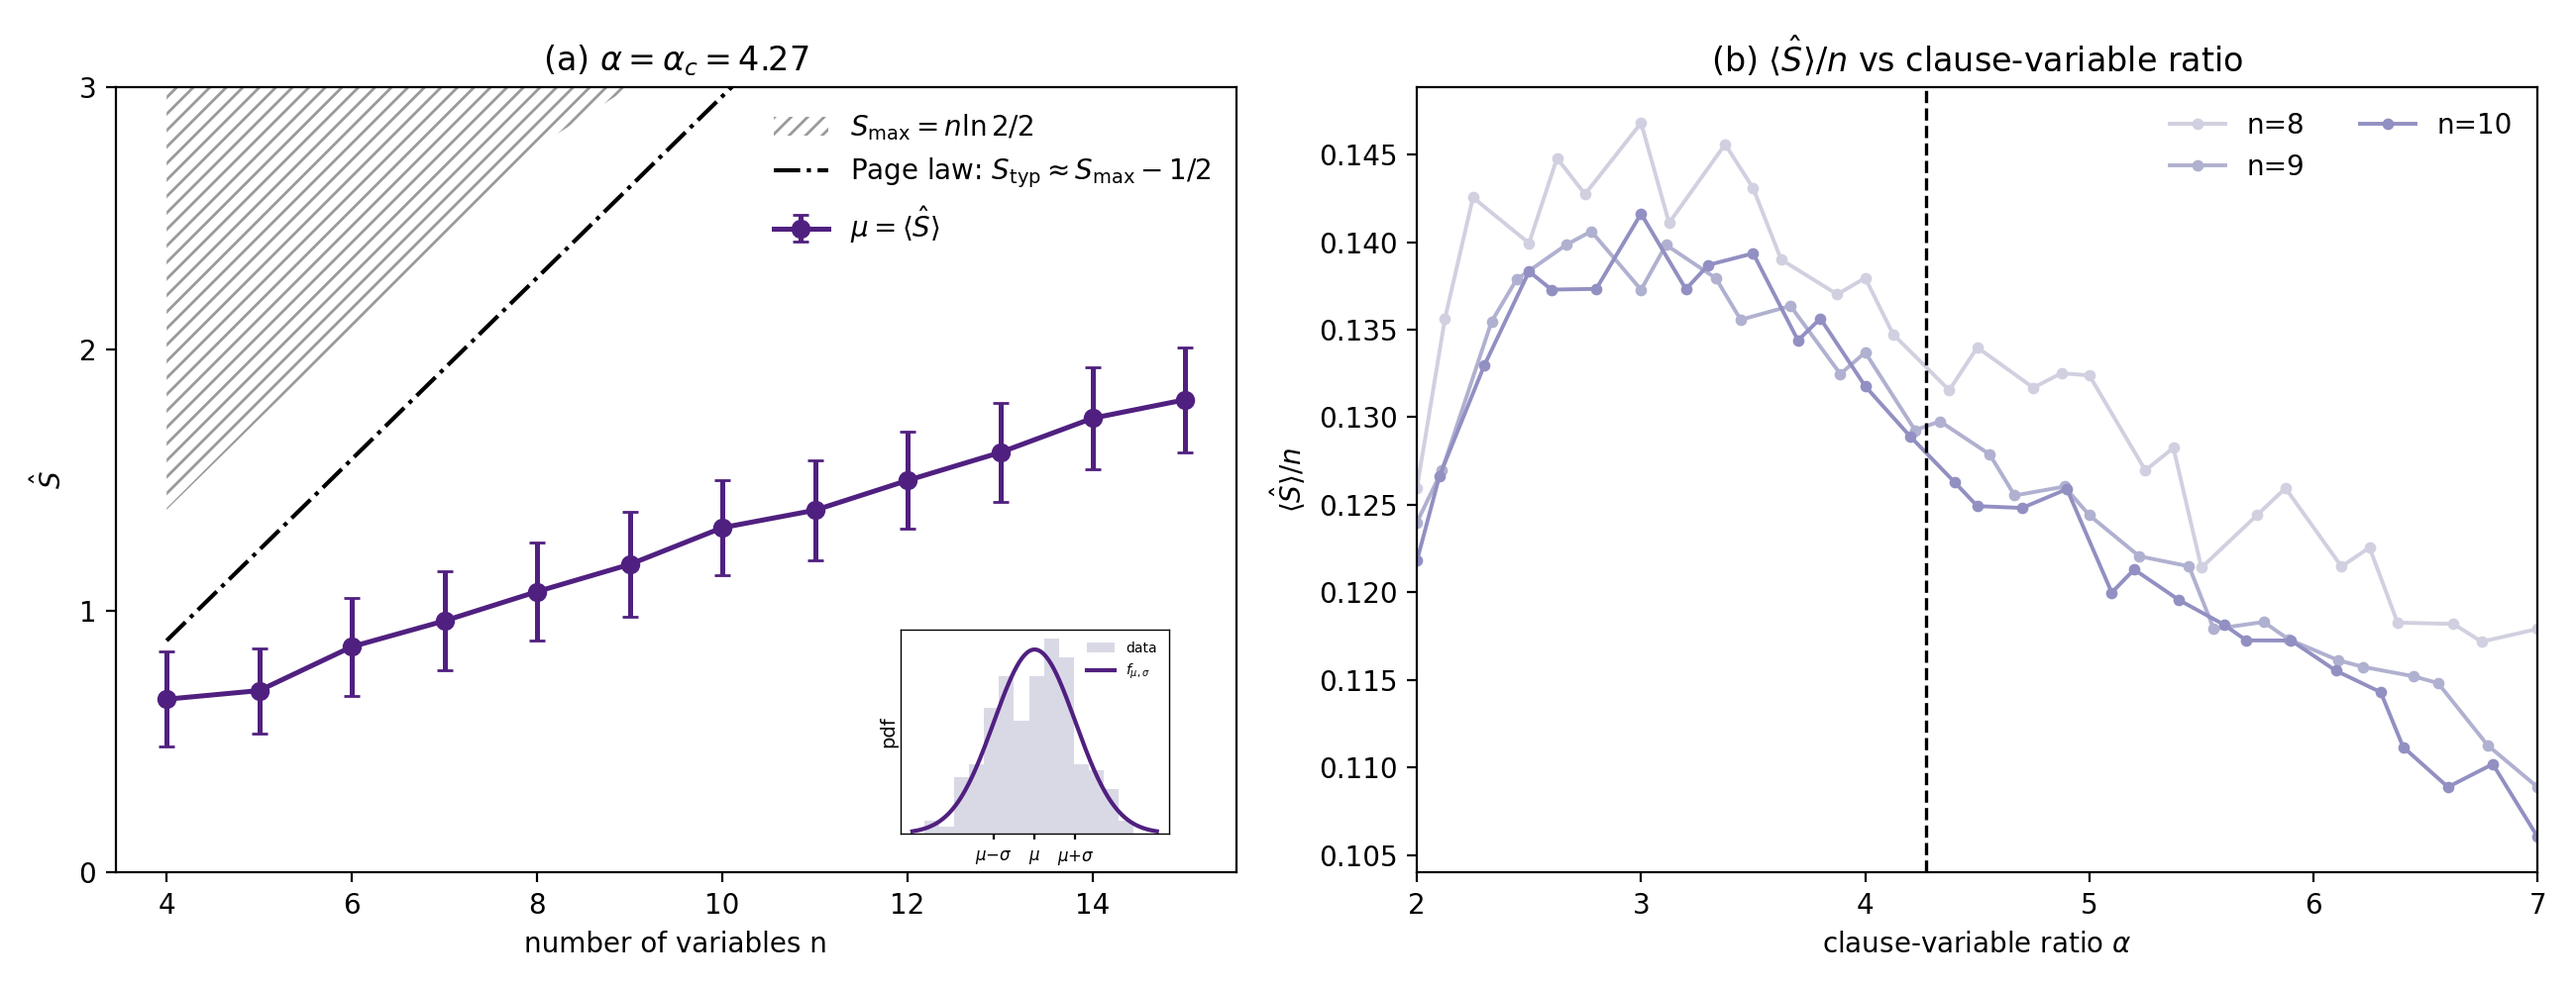
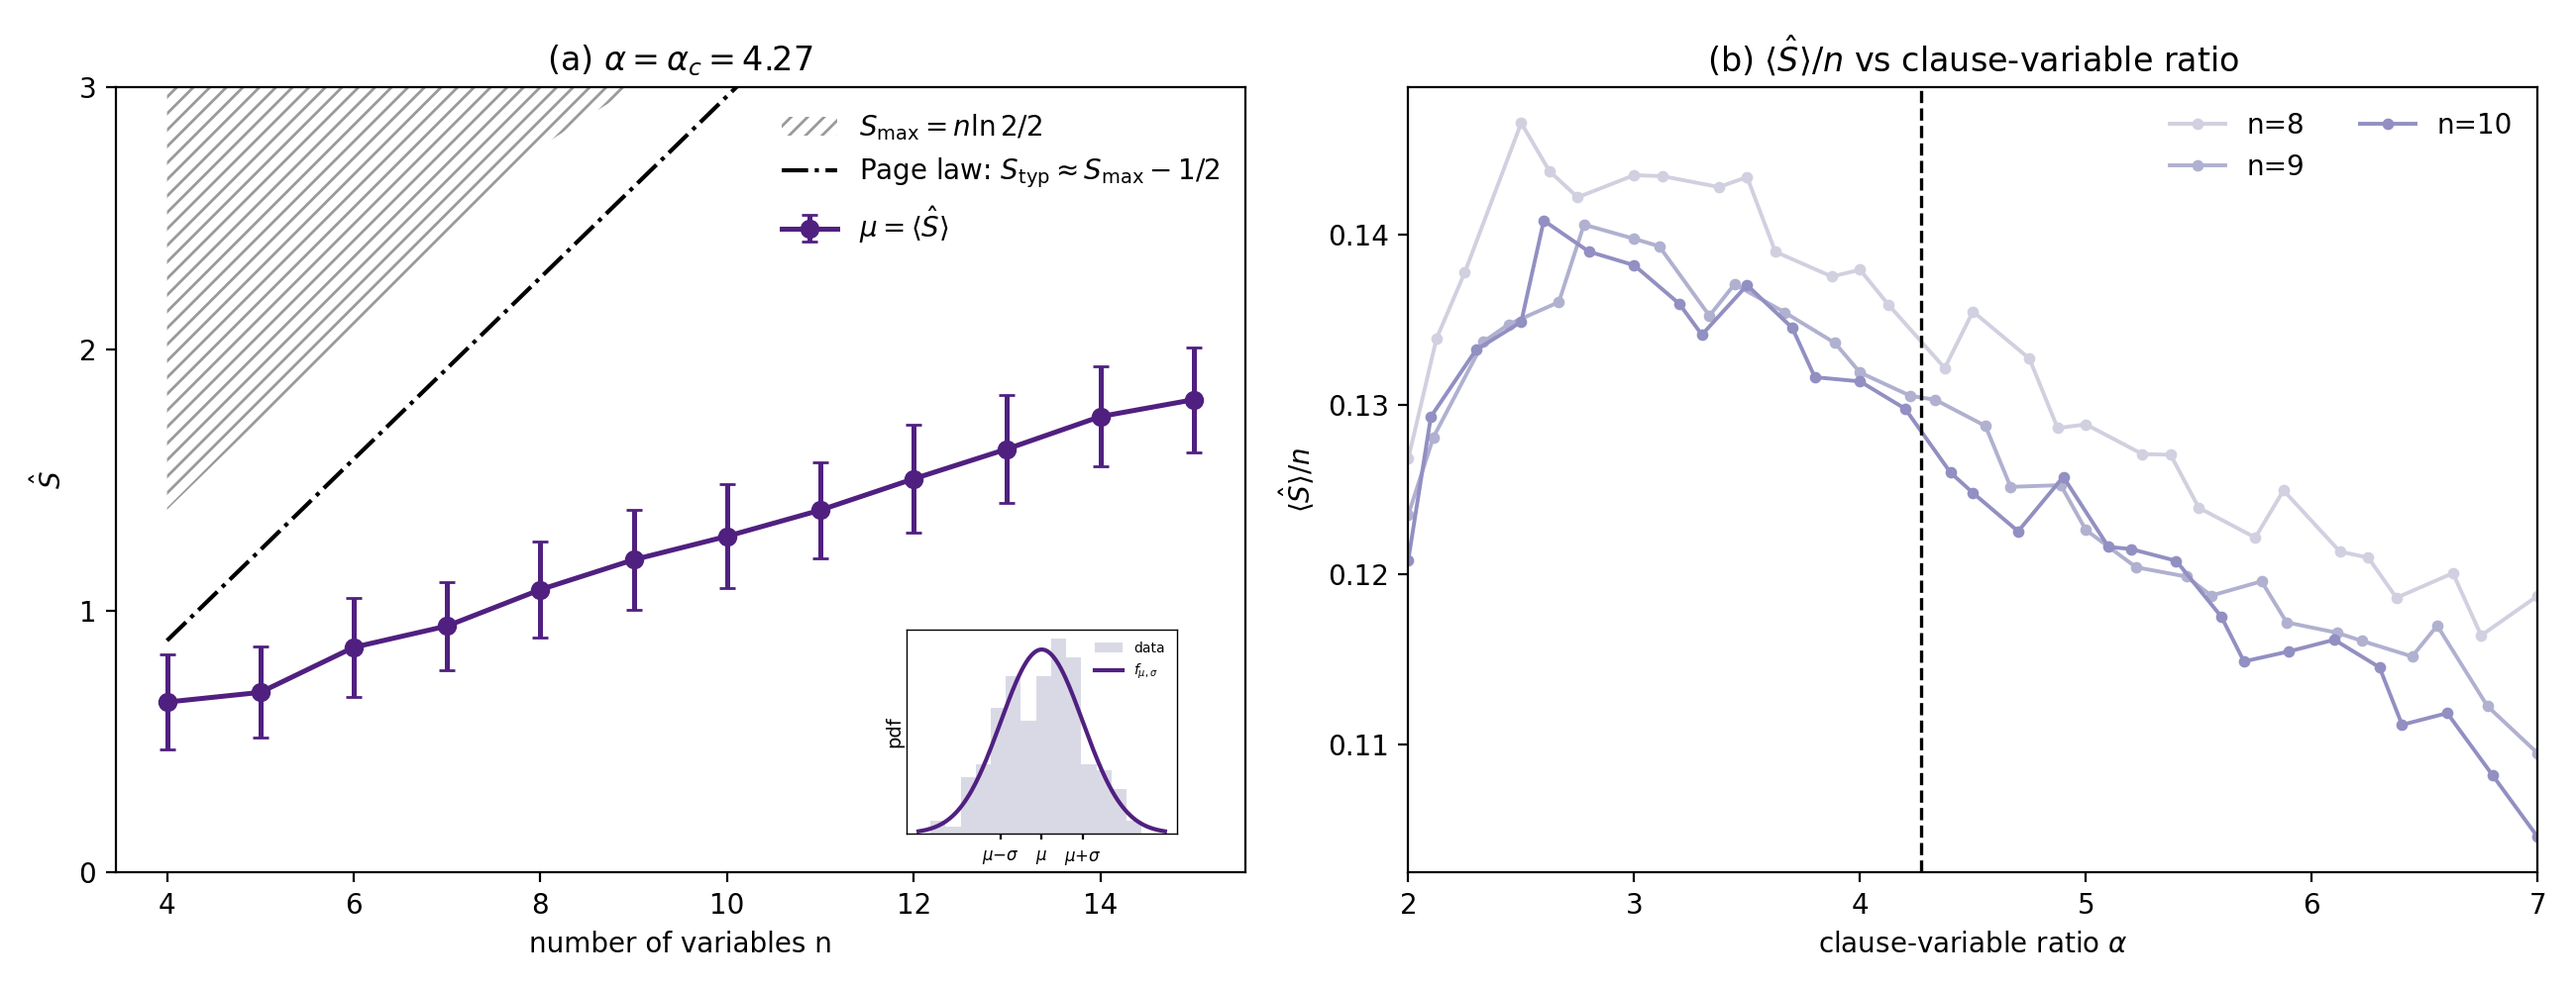
simplify demo  with scipy and optimize performance

diff --git a/examples/reproduce_papers/2026_sat_mps_entanglement/main.py b/examples/reproduce_papers/2026_sat_mps_entanglement/main.py
@@ -21,6 +21,7 @@ import jax
 import jax.numpy as jnp
 import matplotlib.pyplot as plt
 import numpy as np
+from scipy import optimize
 import tensorcircuit as tc
 
 PAPER_COLORS = {
@@ -31,7 +32,7 @@ PAPER_COLORS = {
 }
 
 K = tc.set_backend("jax")
-tc.set_dtype("float64")
+tc.set_dtype("complex128")
 
 
 @lru_cache(maxsize=None)
@@ -50,9 +51,9 @@ def _cached_bit_table_jax(n_variables: int):
 
 @lru_cache(maxsize=None)
 def _cached_init_state(n_variables: int):
-    """Uniform superposition |+...+> as real float64 (diagonal H => always real)."""
+    """Uniform superposition |+...+> in complex128."""
     dim = 1 << n_variables
-    return jnp.ones(dim, dtype=jnp.float64) / jnp.sqrt(float(dim))
+    return jnp.ones(dim, dtype=jnp.complex128) / jnp.sqrt(float(dim))
 
 
 def _generate_batch_clauses(key, n_variables, n_clauses, batch_size, p0):
@@ -80,104 +81,86 @@ def _generate_batch_clauses(key, n_variables, n_clauses, batch_size, p0):
     return K.cast(signs * terms, "int16")
 
 
-def _single_violation(instance_clauses, bit_table, clause_mask):
-    """Violation count for each bitstring of one instance (avoids 4D broadcast)."""
+def _single_violation(instance_clauses, bit_table):
+    """Violation count for each bitstring of one instance."""
     clause_vars = K.cast(K.abs(instance_clauses), "int32") - 1
     clause_negs = K.cast(instance_clauses < 0, "int8")
     selected = bit_table[:, clause_vars]
     violated = K.all(selected == clause_negs[None, :, :], axis=-1)
-    violated = violated & clause_mask[None, :]
     return K.cast(violated.sum(axis=-1), "float64")
 
 
 # Same setting as author's Julia reference
 _TAU_UPPER = 7.5
 _TAU_VALID = 10.0
-_GSS_ITERS = 13
-# Batch size setting which can be tuned by user for different hardware.
-_CHECK_BATCH = 1024
-_GSS_BATCH = 256
+_CHECK_BATCH = 2048
 _MAX_BATCH_BYTES = 1 << 30
 
 
-def _entropy_at_tau(tau, energies, init_state, n_left):
-    """Half-chain von Neumann entropy of the imaginary-time evolved state."""
+def _entropy_from_singular_values(s, xp):
+    """Shared entropy helper from singular values."""
+    s2 = s * s
+    p = xp.where(s2 < 1e-10, 0.0, s2)
+    p = p / xp.sum(p)
+    p = xp.clip(p, 1e-30, None)
+    return -xp.sum(p * xp.log(p))
+
+
+def _entropy_at_tau_jax(tau, energies, init_state, n_left):
+    """JAX entropy used by stage1 validity filtering."""
     psi = init_state * K.exp(-tau * energies)
     dim_left = 1 << n_left
     s = jnp.linalg.svd(psi.reshape(dim_left, -1), compute_uv=False)
-    p = s**2
-    p = K.where(p < 1e-10, 0.0, p)
-    p = p / K.sum(p)
-    p = K.clip(p, 1e-30, 1.0)
-    return -K.sum(p * K.log(p))
+    return _entropy_from_singular_values(s, jnp)
+
+
+def _entropy_at_tau(tau, energies_np, init_state_np, n_left):
+    """NumPy entropy for host-side SciPy peak search."""
+    tau = float(tau)
+    psi = init_state_np * np.exp(-tau * energies_np)
+    dim_left = 1 << n_left
+    s = np.linalg.svd(psi.reshape(dim_left, -1), compute_uv=False)
+    return float(_entropy_from_singular_values(s, np))
 
 
 def _check_valid_single(energies, init_state, n_left):
     """Validity check per Julia reference: S(7.5) >= S(10.0)."""
-    return _entropy_at_tau(_TAU_UPPER, energies, init_state, n_left) >= _entropy_at_tau(
-        _TAU_VALID, energies, init_state, n_left
-    )
+    return _entropy_at_tau_jax(
+        _TAU_UPPER, energies, init_state, n_left
+    ) >= _entropy_at_tau_jax(_TAU_VALID, energies, init_state, n_left)
 
 
 def _stage1_generate_and_check(
-    key, bit_table, init_state, n_variables, max_clauses, batch_size, p0, n_clauses
+    key, bit_table, init_state, n_variables, n_clauses, batch_size, p0
 ):
     """generate instances, compute energies, check validity."""
     n_left = n_variables // 2
-    clauses = _generate_batch_clauses(key, n_variables, max_clauses, batch_size, p0)
-    clause_mask = jnp.arange(max_clauses) < n_clauses
-    energies = K.vmap(lambda c: _single_violation(c, bit_table, clause_mask))(clauses)
+    clauses = _generate_batch_clauses(key, n_variables, n_clauses, batch_size, p0)
+    energies = K.vmap(lambda c: _single_violation(c, bit_table))(clauses)
     is_valid = K.vmap(lambda e: _check_valid_single(e, init_state, n_left))(energies)
     return energies, is_valid
 
 
-def _find_peak_single(energies, init_state, n_left):
-    """Golden section search for peak entropy over tau in [0, TAU_UPPER]."""
-    gr = (K.sqrt(5.0) + 1.0) / 2.0
+def _find_peak_single(energies_np, init_state_np, n_left):
+    """Find peak entropy via coarse scan + bounded scalar minimize."""
+    tau_grid = np.array([0.0, 1.5, 3.0, 4.5, 6.0, _TAU_UPPER], dtype=np.float64)
+    coarse_max = max(
+        _entropy_at_tau(t, energies_np, init_state_np, n_left) for t in tau_grid
+    )
 
-    def _ent(tau):
-        return _entropy_at_tau(tau, energies, init_state, n_left)
+    def neg_entropy(tau):
+        return -_entropy_at_tau(tau, energies_np, init_state_np, n_left)
 
-    a, b = 0.0, _TAU_UPPER
-    c = b - (b - a) / gr
-    d = a + (b - a) / gr
-
-    def body(_, state):
-        a, b, c, d, fc, fd = state
-        cond = fc > fd
-        a_new = jnp.where(cond, a, c)
-        b_new = jnp.where(cond, d, b)
-        tau_new = jnp.where(
-            cond,
-            b_new - (b_new - a_new) / gr,
-            a_new + (b_new - a_new) / gr,
-        )
-        ent_new = _ent(tau_new)
-        c_new = jnp.where(cond, tau_new, d)
-        d_new = jnp.where(cond, c, tau_new)
-        fc_new = jnp.where(cond, ent_new, fd)
-        fd_new = jnp.where(cond, fc, ent_new)
-        return (a_new, b_new, c_new, d_new, fc_new, fd_new)
-
-    state = jax.lax.fori_loop(0, _GSS_ITERS, body, (a, b, c, d, _ent(c), _ent(d)))
-    return _ent((state[0] + state[1]) / 2.0)
-
-
-def _stage2_find_peaks(energies_batch, init_state, n_left):
-    """run GSS on a batch of valid energies."""
-    return K.vmap(lambda e: _find_peak_single(e, init_state, n_left))(energies_batch)
+    result = optimize.minimize_scalar(
+        neg_entropy,
+        bounds=(0.0, _TAU_UPPER),
+        method="bounded",
+        options={"xatol": 1e-3, "maxiter": 64},
+    )
+    return max(coarse_max, -float(result.fun))
 
 
 _jit_stage1 = K.jit(_stage1_generate_and_check, static_argnums=(3, 4, 5))
-_jit_stage2 = K.jit(_stage2_find_peaks, static_argnums=(2,))
-
-
-def _next_pow2(x: int) -> int:
-    """Round up to the smallest power of 2 >= x."""
-    p = 1
-    while p < x:
-        p <<= 1
-    return p
 
 
 def sample_bump_heights(
@@ -186,20 +169,16 @@ def sample_bump_heights(
     n_instances: int,
     rng: np.random.Generator,
     p0: float,
-    max_clauses: int | None = None,
 ) -> np.ndarray:
     """Sample maximal entanglement bump heights for fixed n and m (clause count)."""
-    if max_clauses is None:
-        max_clauses = n_clauses
-    stage1_mc = _next_pow2(n_clauses)
     bit_table_jax = _cached_bit_table_jax(n_variables)
     init_state = _cached_init_state(n_variables)
+    init_state_np = np.asarray(jax.device_get(init_state), dtype=np.complex128)
     n_left = n_variables // 2
 
-    bytes_per_inst = (1 << n_variables) * stage1_mc * 4
+    bytes_per_inst = (1 << n_variables) * n_clauses * 4
     mem_limit = max(1, _MAX_BATCH_BYTES // bytes_per_inst)
     check_batch = min(mem_limit, _CHECK_BATCH)
-    gss_batch = min(mem_limit, _GSS_BATCH)
 
     key = jax.random.key(int(rng.integers(0, 2**31)))
 
@@ -212,27 +191,19 @@ def sample_bump_heights(
             bit_table_jax,
             init_state,
             n_variables,
-            stage1_mc,
+            n_clauses,
             check_batch,
             p0,
-            n_clauses,
         )
         e_np, v_np = jax.device_get((energies, is_valid))
         valid_energies.append(e_np[v_np])
         n_valid += int(v_np.sum())
 
     all_valid = np.concatenate(valid_energies)[:n_instances]
-
-    peaks: list[np.ndarray] = []
-    for start in range(0, n_instances, gss_batch):
-        end = min(start + gss_batch, n_instances)
-        chunk = all_valid[start:end]
-        if len(chunk) < gss_batch:
-            chunk = np.pad(chunk, ((0, gss_batch - len(chunk)), (0, 0)))
-        peak = _jit_stage2(jnp.array(chunk), init_state, n_left)
-        peaks.append(np.asarray(jax.device_get(peak))[: end - start])
-
-    return np.concatenate(peaks)
+    peaks = np.array(
+        [float(_find_peak_single(row, init_state_np, n_left)) for row in all_valid]
+    )
+    return peaks
 
 
 def collect_panel_a(
@@ -268,16 +239,13 @@ def collect_panel_b(
         m_values = np.floor(alpha_values * n_value).astype(int)
         alpha_actual = m_values / n_value
         unique_m, inv = np.unique(m_values, return_inverse=True)
-        max_m = int(unique_m.max())
         unique_vals = np.empty(len(unique_m), dtype=np.float64)
         for i, m in enumerate(unique_m):
             print(
                 f"[Panel B] n={n_value}, m={m}, "
                 f"alpha_actual={m / n_value:.4f}, instances={n_instances}"
             )
-            heights = sample_bump_heights(
-                n_value, int(m), n_instances, rng, p0, max_clauses=max_m
-            )
+            heights = sample_bump_heights(n_value, int(m), n_instances, rng, p0)
             unique_vals[i] = heights.mean() / n_value
         panel_b[n_value] = (alpha_actual, unique_vals[inv])
     return panel_b
